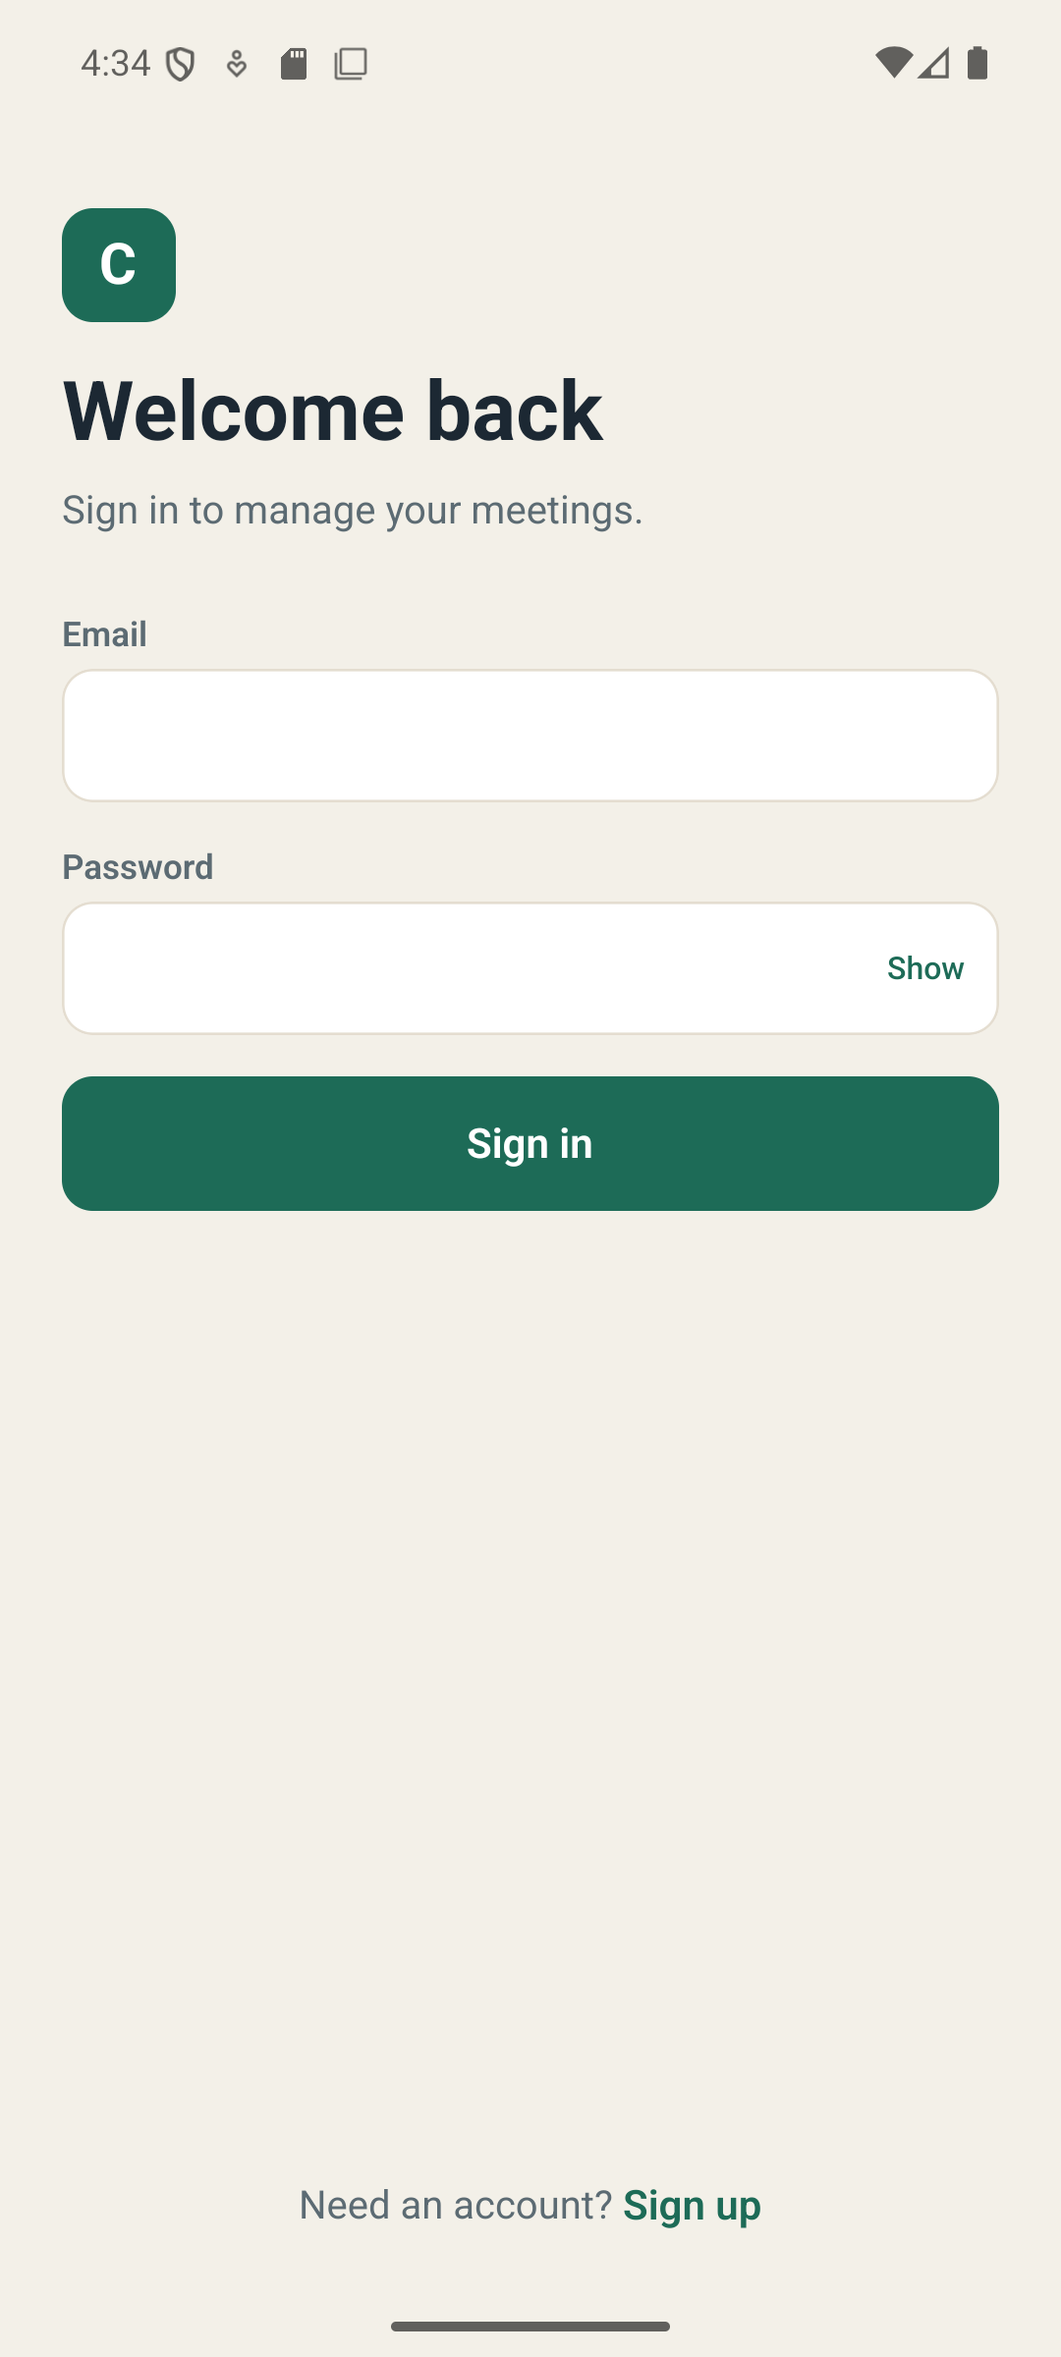
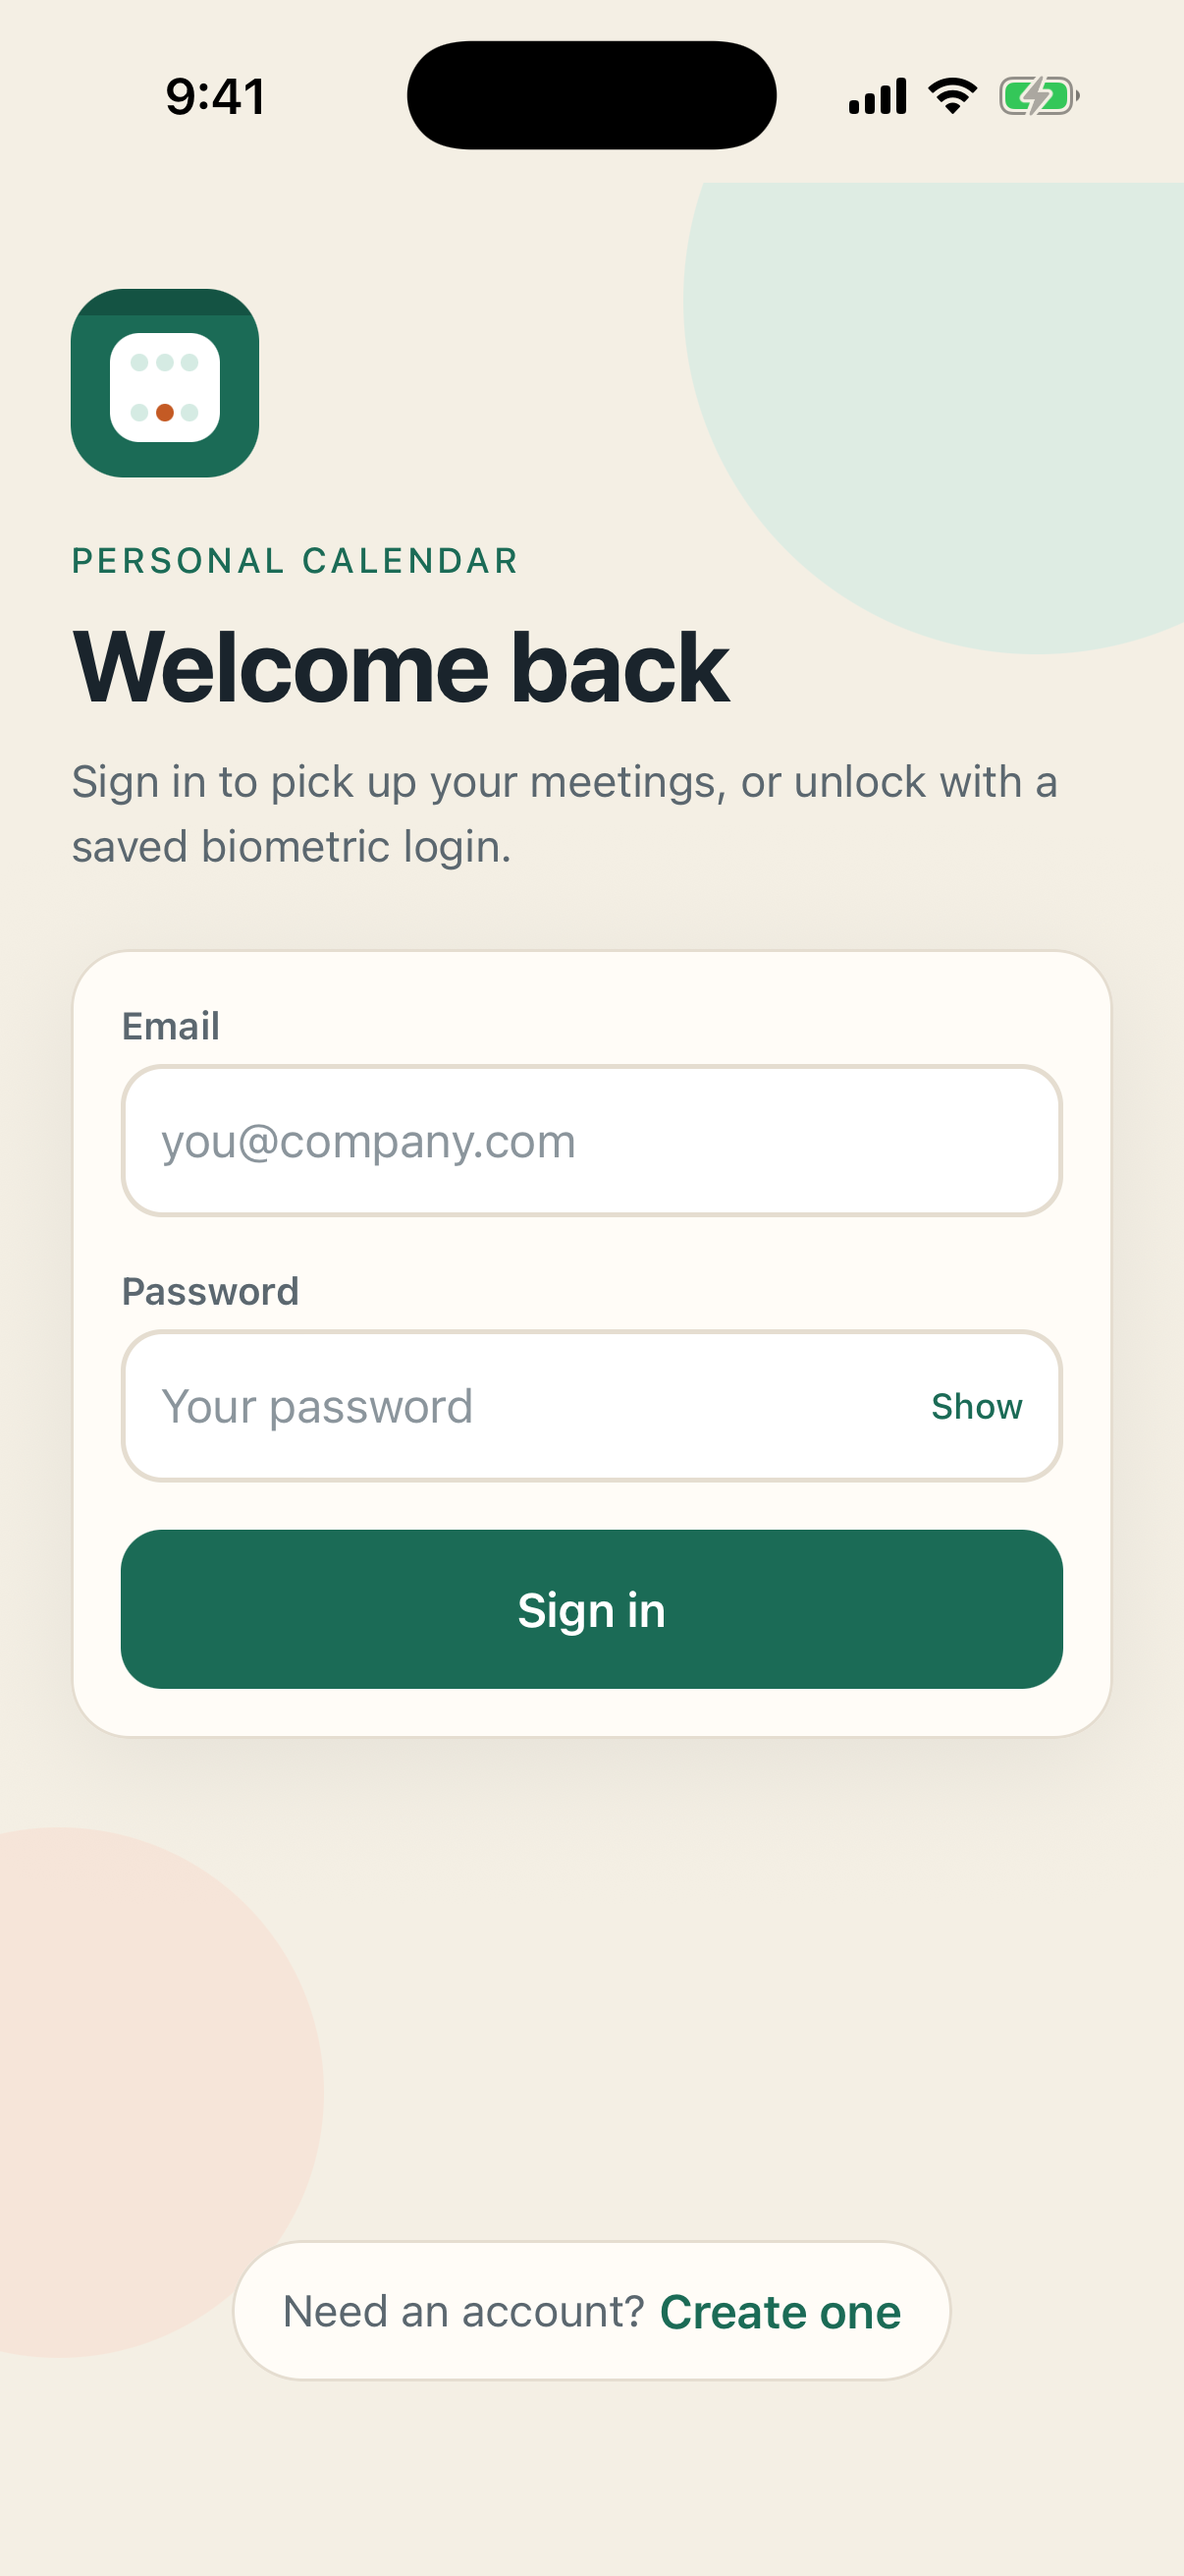
Refactor .gitignore to retain native project directories, update README for screenshot instructions, adjust Gradle file permissions, enhance calendar UI components, and improve AppTextField for multiline support.

diff --git a/src/features/calendar/components/DayTimeline.tsx b/src/features/calendar/components/DayTimeline.tsx
@@ -12,6 +12,7 @@ import {
 import { layoutDayEvents } from '../domain/eventLayout';
 
 const HOUR_HEIGHT = 64;
+const TIME_GUTTER = 58;
 const HOURS = Array.from({ length: 24 }, (_, hour) => hour);
 
 type Props = {
@@ -37,38 +38,47 @@ export function DayTimeline({ day, events, onPressEvent }: Props) {
             <View style={styles.line} />
           </View>
         ))}
-        {positioned.map(item => {
-          const top = (item.startMinutes / 60) * HOUR_HEIGHT;
-          const height = Math.max(
-            28,
-            ((item.endMinutes - item.startMinutes) / 60) * HOUR_HEIGHT - 4,
-          );
-          const widthPercent = 100 / item.columnCount;
-          return (
-            <Pressable
-              key={item.event.id}
-              onPress={() => onPressEvent(item.event)}
-              style={[
-                styles.event,
-                {
-                  top,
-                  height,
-                  left: `${10 + item.column * widthPercent * 0.72}%`,
-                  width: `${widthPercent * 0.7}%`,
-                  backgroundColor: colors.event[item.event.color],
-                },
-              ]}>
-              <AppText variant="caption" color={colors.white} numberOfLines={1} style={styles.eventTitle}>
-                {item.event.title}
-              </AppText>
-              {height > 36 ? (
-                <AppText variant="caption" color={colors.white} style={styles.eventTime}>
-                  {formatTime(new Date(item.event.startAt))}
+        <View style={styles.eventLane} pointerEvents="box-none">
+          {positioned.map(item => {
+            const top = (item.startMinutes / 60) * HOUR_HEIGHT;
+            const height = Math.max(
+              28,
+              ((item.endMinutes - item.startMinutes) / 60) * HOUR_HEIGHT - 4,
+            );
+            const widthPercent = 100 / item.columnCount;
+            return (
+              <Pressable
+                key={item.event.id}
+                onPress={() => onPressEvent(item.event)}
+                style={[
+                  styles.event,
+                  {
+                    top,
+                    height,
+                    left: `${item.column * widthPercent}%`,
+                    width: `${widthPercent}%`,
+                    backgroundColor: colors.event[item.event.color],
+                  },
+                ]}>
+                <AppText
+                  variant="caption"
+                  color={colors.white}
+                  numberOfLines={1}
+                  style={styles.eventTitle}>
+                  {item.event.title}
                 </AppText>
-              ) : null}
-            </Pressable>
-          );
-        })}
+                {height > 36 ? (
+                  <AppText
+                    variant="caption"
+                    color={colors.white}
+                    style={styles.eventTime}>
+                    {formatTime(new Date(item.event.startAt))}
+                  </AppText>
+                ) : null}
+              </Pressable>
+            );
+          })}
+        </View>
         {showNow ? (
           <View style={[styles.now, { top: nowTop }]}>
             <View style={styles.nowDot} />
@@ -86,7 +96,6 @@ const styles = StyleSheet.create({
   },
   timeline: {
     position: 'relative',
-    paddingLeft: spacing.xs,
   },
   hourRow: {
     height: HOUR_HEIGHT,
@@ -94,7 +103,9 @@ const styles = StyleSheet.create({
     alignItems: 'flex-start',
   },
   label: {
-    width: 52,
+    width: TIME_GUTTER,
+    textAlign: 'right',
+    paddingRight: spacing.sm,
   },
   line: {
     flex: 1,
@@ -103,11 +114,19 @@ const styles = StyleSheet.create({
     marginTop: 8,
     marginRight: 16,
   },
+  eventLane: {
+    position: 'absolute',
+    top: 0,
+    bottom: 0,
+    left: TIME_GUTTER + 6,
+    right: 16,
+  },
   event: {
     position: 'absolute',
     borderRadius: radius.sm,
     paddingHorizontal: 8,
     paddingVertical: 6,
+    paddingRight: 10,
   },
   eventTitle: {
     fontWeight: '700',
@@ -118,7 +137,7 @@ const styles = StyleSheet.create({
   },
   now: {
     position: 'absolute',
-    left: 46,
+    left: TIME_GUTTER - 5,
     right: 16,
     flexDirection: 'row',
     alignItems: 'center',

diff --git a/src/shared/ui/AppTextField.tsx b/src/shared/ui/AppTextField.tsx
@@ -6,7 +6,7 @@ import {
   View,
   type TextInputProps,
 } from 'react-native';
-import { colors, radius, spacing, typography } from '../theme/theme';
+import { colors, radius, spacing } from '../theme/theme';
 import { AppText } from './AppText';
 
 type Props = TextInputProps & {
@@ -18,7 +18,17 @@ type Props = TextInputProps & {
 type TextFieldRef = React.ComponentRef<typeof TextInput>;
 
 export const AppTextField = forwardRef<TextFieldRef, Props>(function AppTextField(
-  { label, error, hint, secureTextEntry, style, onFocus, onBlur, ...rest },
+  {
+    label,
+    error,
+    hint,
+    secureTextEntry,
+    style,
+    onFocus,
+    onBlur,
+    multiline,
+    ...rest
+  },
   ref,
 ) {
   const [hidden, setHidden] = useState(Boolean(secureTextEntry));
@@ -32,12 +42,14 @@ export const AppTextField = forwardRef<TextFieldRef, Props>(function AppTextFiel
       <View
         style={[
           styles.field,
+          multiline ? styles.fieldMultiline : null,
           focused ? styles.fieldFocused : null,
           error ? styles.fieldError : null,
         ]}>
         <TextInput
           ref={ref}
           {...rest}
+          multiline={multiline}
           onFocus={event => {
             setFocused(true);
             onFocus?.(event);
@@ -48,7 +60,13 @@ export const AppTextField = forwardRef<TextFieldRef, Props>(function AppTextFiel
           }}
           secureTextEntry={secureTextEntry ? hidden : false}
           placeholderTextColor={colors.inkFaint}
-          style={[styles.input, style]}
+          textAlignVertical={multiline ? 'top' : 'center'}
+          underlineColorAndroid="transparent"
+          style={[
+            styles.input,
+            multiline ? styles.inputMultiline : styles.inputSingle,
+            style,
+          ]}
         />
         {secureTextEntry ? (
           <Pressable
@@ -80,7 +98,7 @@ const styles = StyleSheet.create({
     gap: spacing.xxs,
   },
   field: {
-    minHeight: 54,
+    height: 52,
     borderRadius: radius.md,
     borderWidth: 1.5,
     borderColor: colors.border,
@@ -88,7 +106,12 @@ const styles = StyleSheet.create({
     paddingHorizontal: spacing.sm,
     flexDirection: 'row',
     alignItems: 'center',
-    gap: spacing.xs,
+  },
+  fieldMultiline: {
+    height: undefined,
+    minHeight: 108,
+    alignItems: 'flex-start',
+    paddingVertical: spacing.sm,
   },
   fieldFocused: {
     borderColor: colors.primary,
@@ -100,7 +123,17 @@ const styles = StyleSheet.create({
   input: {
     flex: 1,
     color: colors.ink,
-    ...typography.body,
-    paddingVertical: spacing.sm,
+    fontSize: 16,
+    fontWeight: '400',
+    padding: 0,
+    margin: 0,
+    includeFontPadding: false,
+  },
+  inputSingle: {
+    height: '100%',
+  },
+  inputMultiline: {
+    minHeight: 84,
+    textAlignVertical: 'top',
   },
 });

diff --git a/src/features/calendar/components/AgendaList.tsx b/src/features/calendar/components/AgendaList.tsx
@@ -103,12 +103,14 @@ const styles = StyleSheet.create({
     minHeight: 76,
   },
   timeCol: {
-    width: 52,
+    width: 56,
+    flexShrink: 0,
     paddingTop: 10,
     gap: 2,
   },
   body: {
     flex: 1,
+    minWidth: 0,
     borderRadius: radius.md,
     overflow: 'hidden',
     flexDirection: 'row',

diff --git a/README.md b/README.md
@@ -168,7 +168,7 @@ Native modules (Keychain, biometrics, Firebase client) are mocked at the Jest bo
 
 ## Screenshots
 
-Add device captures under `docs/screenshots/` after running the app:
+Current captures from the iPhone 17 Pro simulator live in `docs/screenshots/`:
 
 - `01-sign-in.png`
 - `02-sign-up.png`

diff --git a/docs/screenshots/README.md b/docs/screenshots/README.md
@@ -1,2 +1,8 @@
-# Screenshots from a device or emulator belong in this folder.
-# See README.md for the expected file names.
+Simulator captures for the assignment README:
+
+- `01-sign-in.png`
+- `02-sign-up.png`
+- `03-calendar-month.png`
+- `04-calendar-day.png`
+- `05-event-editor.png`
+- `06-profile.png`
